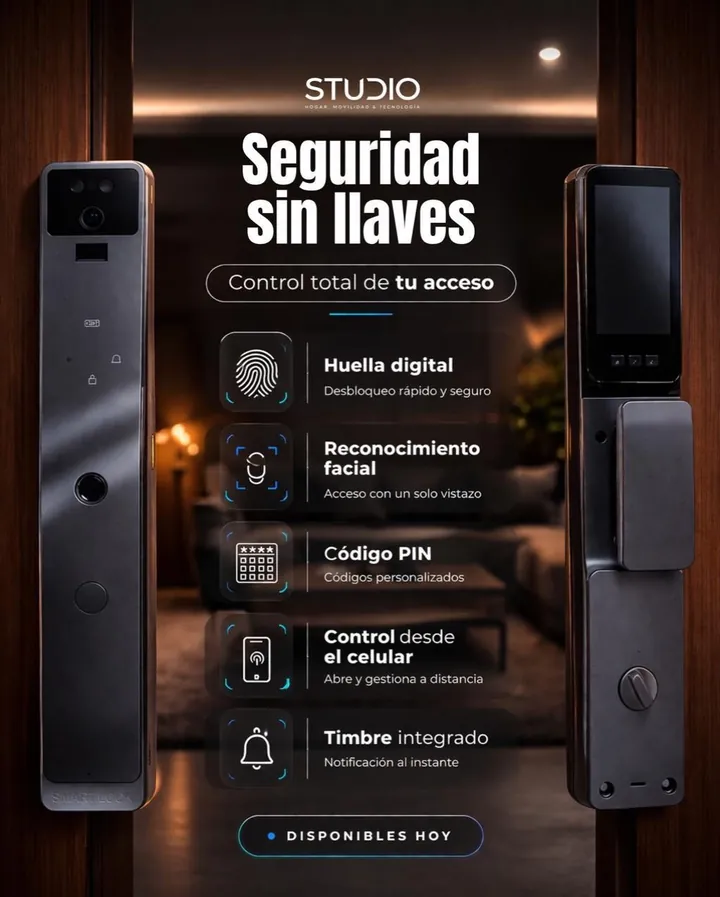
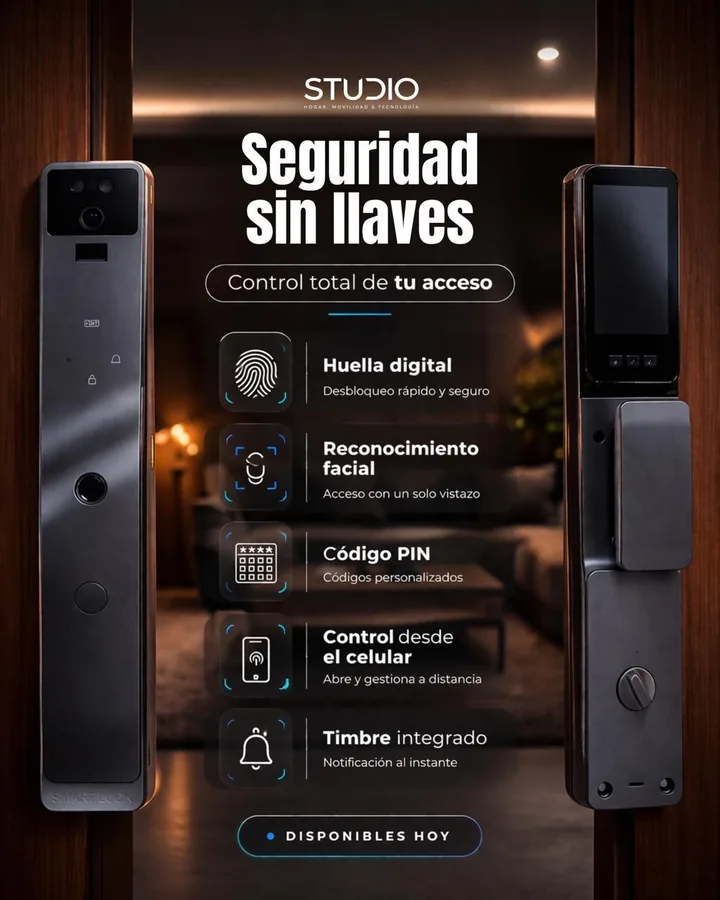
Página pública: foto de TV 65 pulgadas y cerraduras en alta calidad
Claude-Session: https://claude.ai/code/session_01XsqePqNsr899Mjtsv3s8DJ

diff --git a/tienda.html b/tienda.html
@@ -366,6 +366,7 @@ footer a:hover{color:var(--texto)}
       <a class="poster" href="#p-lq-hld"><img src="img/tienda/destacados/lq-hld-muevete.webp" alt="STUDIO · LQ-HLD" width="720" height="897" loading="lazy" decoding="async"><span>LQ-HLD <i class="ti ti-arrow-right" aria-hidden="true"></i></span></a>
       <a class="poster" href="#p-lq-xbw"><img src="img/tienda/destacados/lq-xbw.webp" alt="STUDIO · LQ-XBW" width="720" height="897" loading="lazy" decoding="async"><span>LQ-XBW <i class="ti ti-arrow-right" aria-hidden="true"></i></span></a>
       <a class="poster" href="#p-cw-smart-tv"><img src="img/tienda/destacados/tv-tamanos.webp" alt="STUDIO · CW Smart TV de 32 a 65 pulgadas" width="720" height="900" loading="lazy" decoding="async"><span>CW Smart TV <i class="ti ti-arrow-right" aria-hidden="true"></i></span></a>
+      <a class="poster" href="#p-cw-smart-tv"><img src="img/tienda/destacados/tv-65.webp" alt="STUDIO · CW Smart TV 65 pulgadas" width="720" height="900" loading="lazy" decoding="async"><span>Smart TV 65" <i class="ti ti-arrow-right" aria-hidden="true"></i></span></a>
       <a class="poster" href="#p-smart-lock-facial"><img src="img/tienda/destacados/smart-lock.webp" alt="STUDIO · Smart Lock" width="720" height="897" loading="lazy" decoding="async"><span>Smart Lock <i class="ti ti-arrow-right" aria-hidden="true"></i></span></a>
       <a class="poster" href="#p-nevera-cw"><img src="img/tienda/destacados/neveras.webp" alt="STUDIO · Neveras CW" width="720" height="897" loading="lazy" decoding="async"><span>Neveras CW <i class="ti ti-arrow-right" aria-hidden="true"></i></span></a>
       <a class="poster" href="#p-ventilador-de-techo-42"><img src="img/tienda/destacados/ventilador-cristal.webp" alt="STUDIO · Ventilador cristal" width="720" height="897" loading="lazy" decoding="async"><span>Ventilador cristal <i class="ti ti-arrow-right" aria-hidden="true"></i></span></a>
@@ -470,7 +471,7 @@ const CATALOGO = {
   ],
   gHogar: [
     { nombre: 'CW Smart TV', sub: 'De 32" a 65" · elige tu tamaño', ancha: true,
-      variantes: [['32"', img('tv-fila'), null, null, 'agotado', 'Android TV · 4K'], ['43"', img('tv-fila'), null, 14990, '', 'Android TV · 4K'], ['50"', img('tv-fila'), null, 21990, '', 'Google TV · 8K'], ['55"', img('tv-fila'), null, 25000, '', 'Google TV · 8K'], ['65"', img('tv-fila'), null, 34000, '', 'Google TV · 8K']],
+      variantes: [['32"', img('tv-fila'), null, null, 'agotado', 'Android TV · 4K'], ['43"', img('tv-fila'), null, 14990, '', 'Android TV · 4K'], ['50"', img('tv-fila'), null, 21990, '', 'Google TV · 8K'], ['55"', img('tv-fila'), null, 25000, '', 'Google TV · 8K'], ['65"', img('tv-65'), null, 34000, '', 'Google TV · 8K']],
       rasgos: ['Smart TV', 'Resolución HD', 'Apps de streaming'] },
     { nombre: 'Aire CW-STUDIO inverter', sub: 'Eficiencia 19 · WiFi',
       variantes: [['12,000 BTU', img('aire-24000'), null, null, 'agotado'], ['18,000 BTU', img('aire-24000'), null, null, 'agotado'], ['24,000 BTU', img('aire-24000'), null, 40000]],

diff --git a/docs/bitacora/2026-09-25-0645-claude.md b/docs/bitacora/2026-09-25-0645-claude.md
@@ -1,0 +1,21 @@
+# 2026-09-25 06:45 — Página pública: TV 65" y cerraduras en alta calidad (Claude)
+
+El dueño mandó dos pósters: «65" pulgadas» (TV frente a su caja) y «Seguridad sin llaves» en
+buena calidad.
+
+## Cambios
+- `img/tienda/lock-facial.webp`: las dos cerraduras (frente y reverso) recortadas del póster con
+  IA y puestas lado a lado. Reemplaza la foto con la caja y en baja resolución.
+- `img/tienda/tv-65.webp`: la TV con su caja, recortada con el método de fondo blanco. Con la IA
+  se perdía la caja y el borde de la pantalla.
+- `tienda.html`:
+  - la variante 65" de la CW Smart TV muestra `tv-65`; 32/43/50/55 siguen con la fila de los 5;
+  - nuevo póster «Smart TV 65"» en «Lo nuevo en STUDIO».
+- `destacados/smart-lock.webp` se reemplaza por la versión nueva, de mejor calidad.
+
+## Pruebas
+Playwright: el botón 65" cambia la foto a `tv-65.webp`, 0 imágenes rotas, 0 errores.
+
+## Estado
+En la rama. **No publicado.** Pendientes de foto: monta carga azul completa, neveras y, opcional,
+el M12 blanco y gris.
